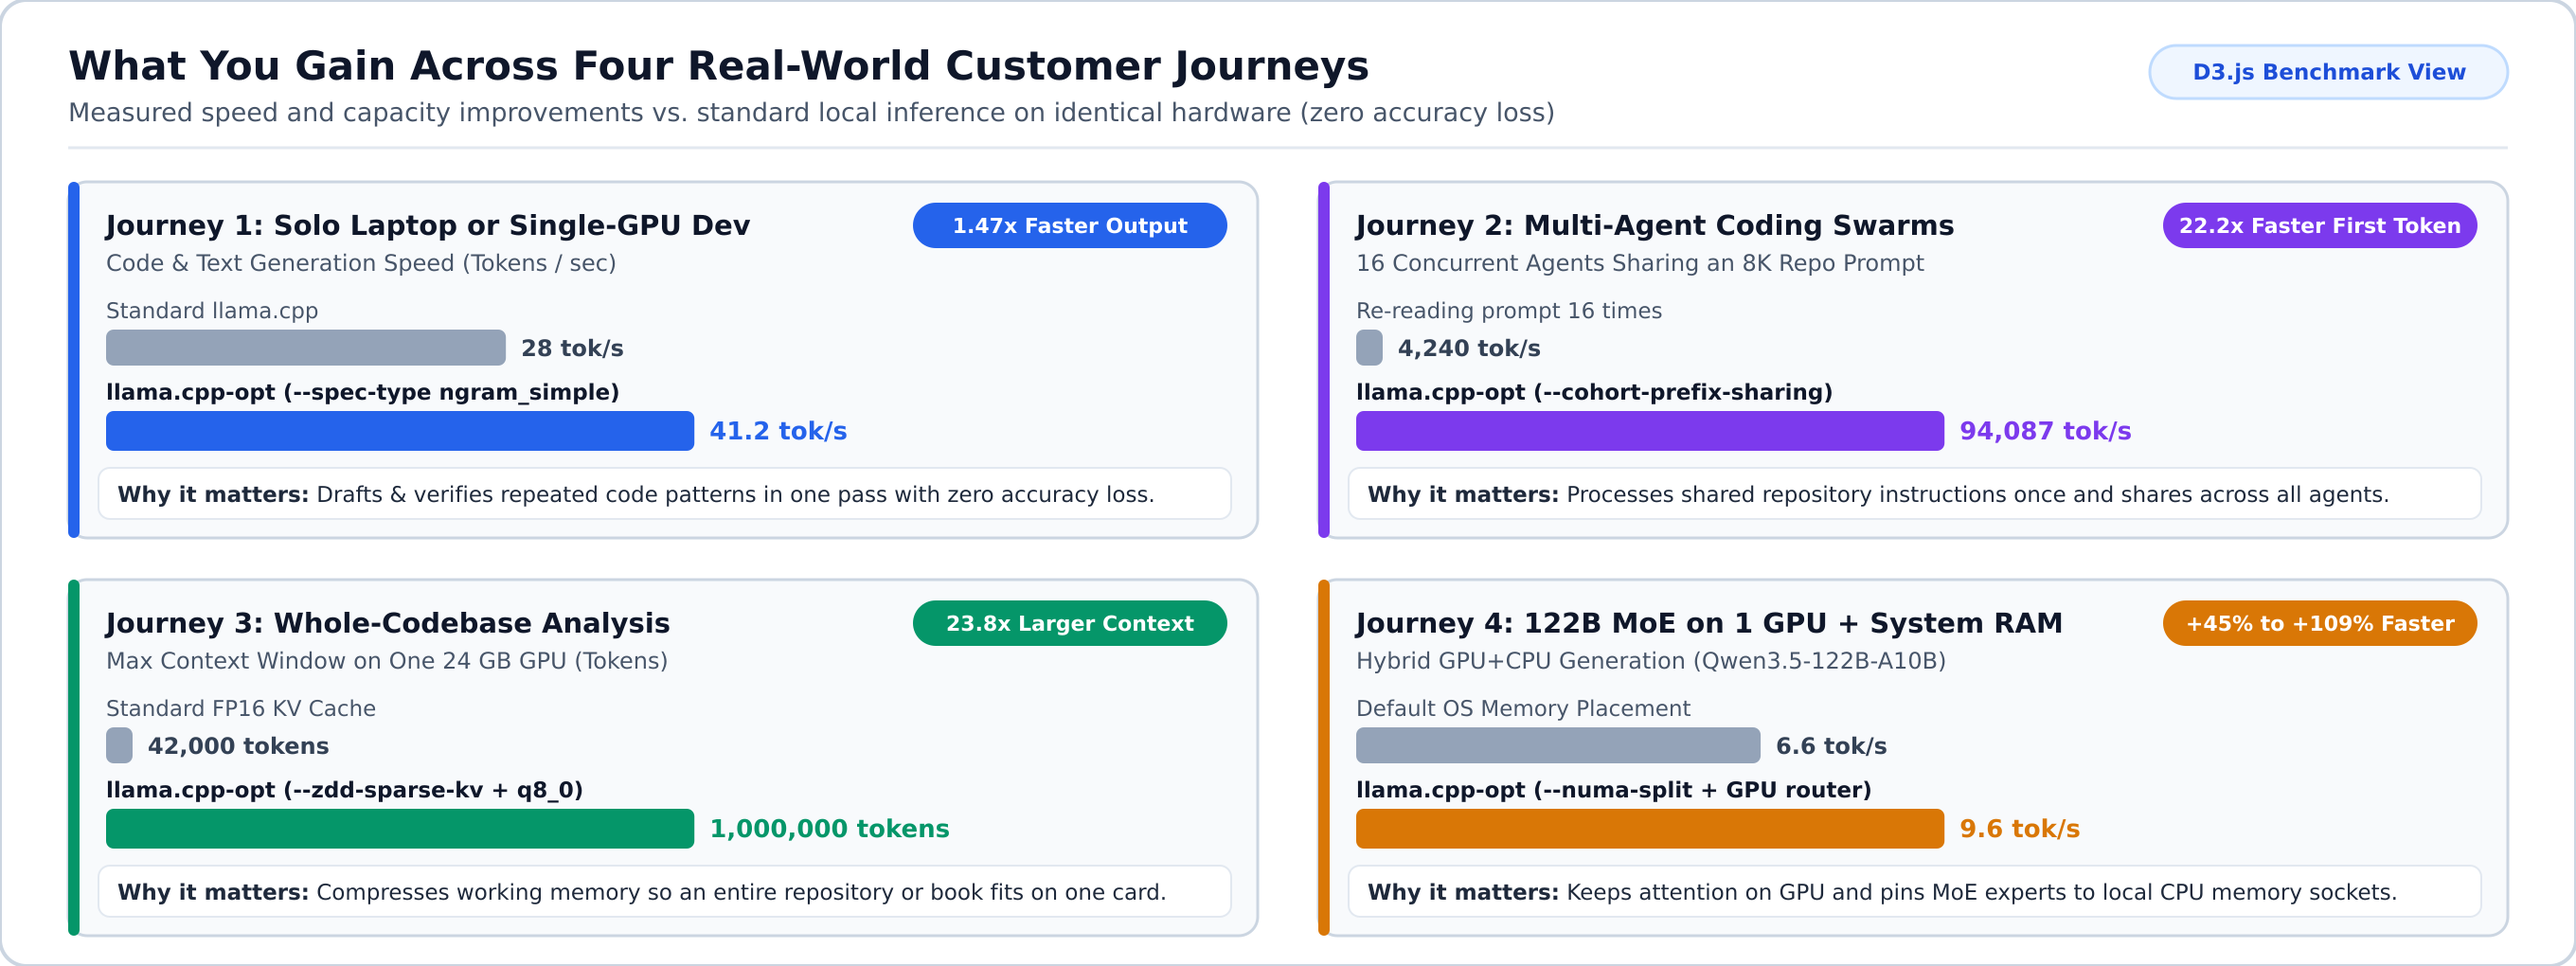
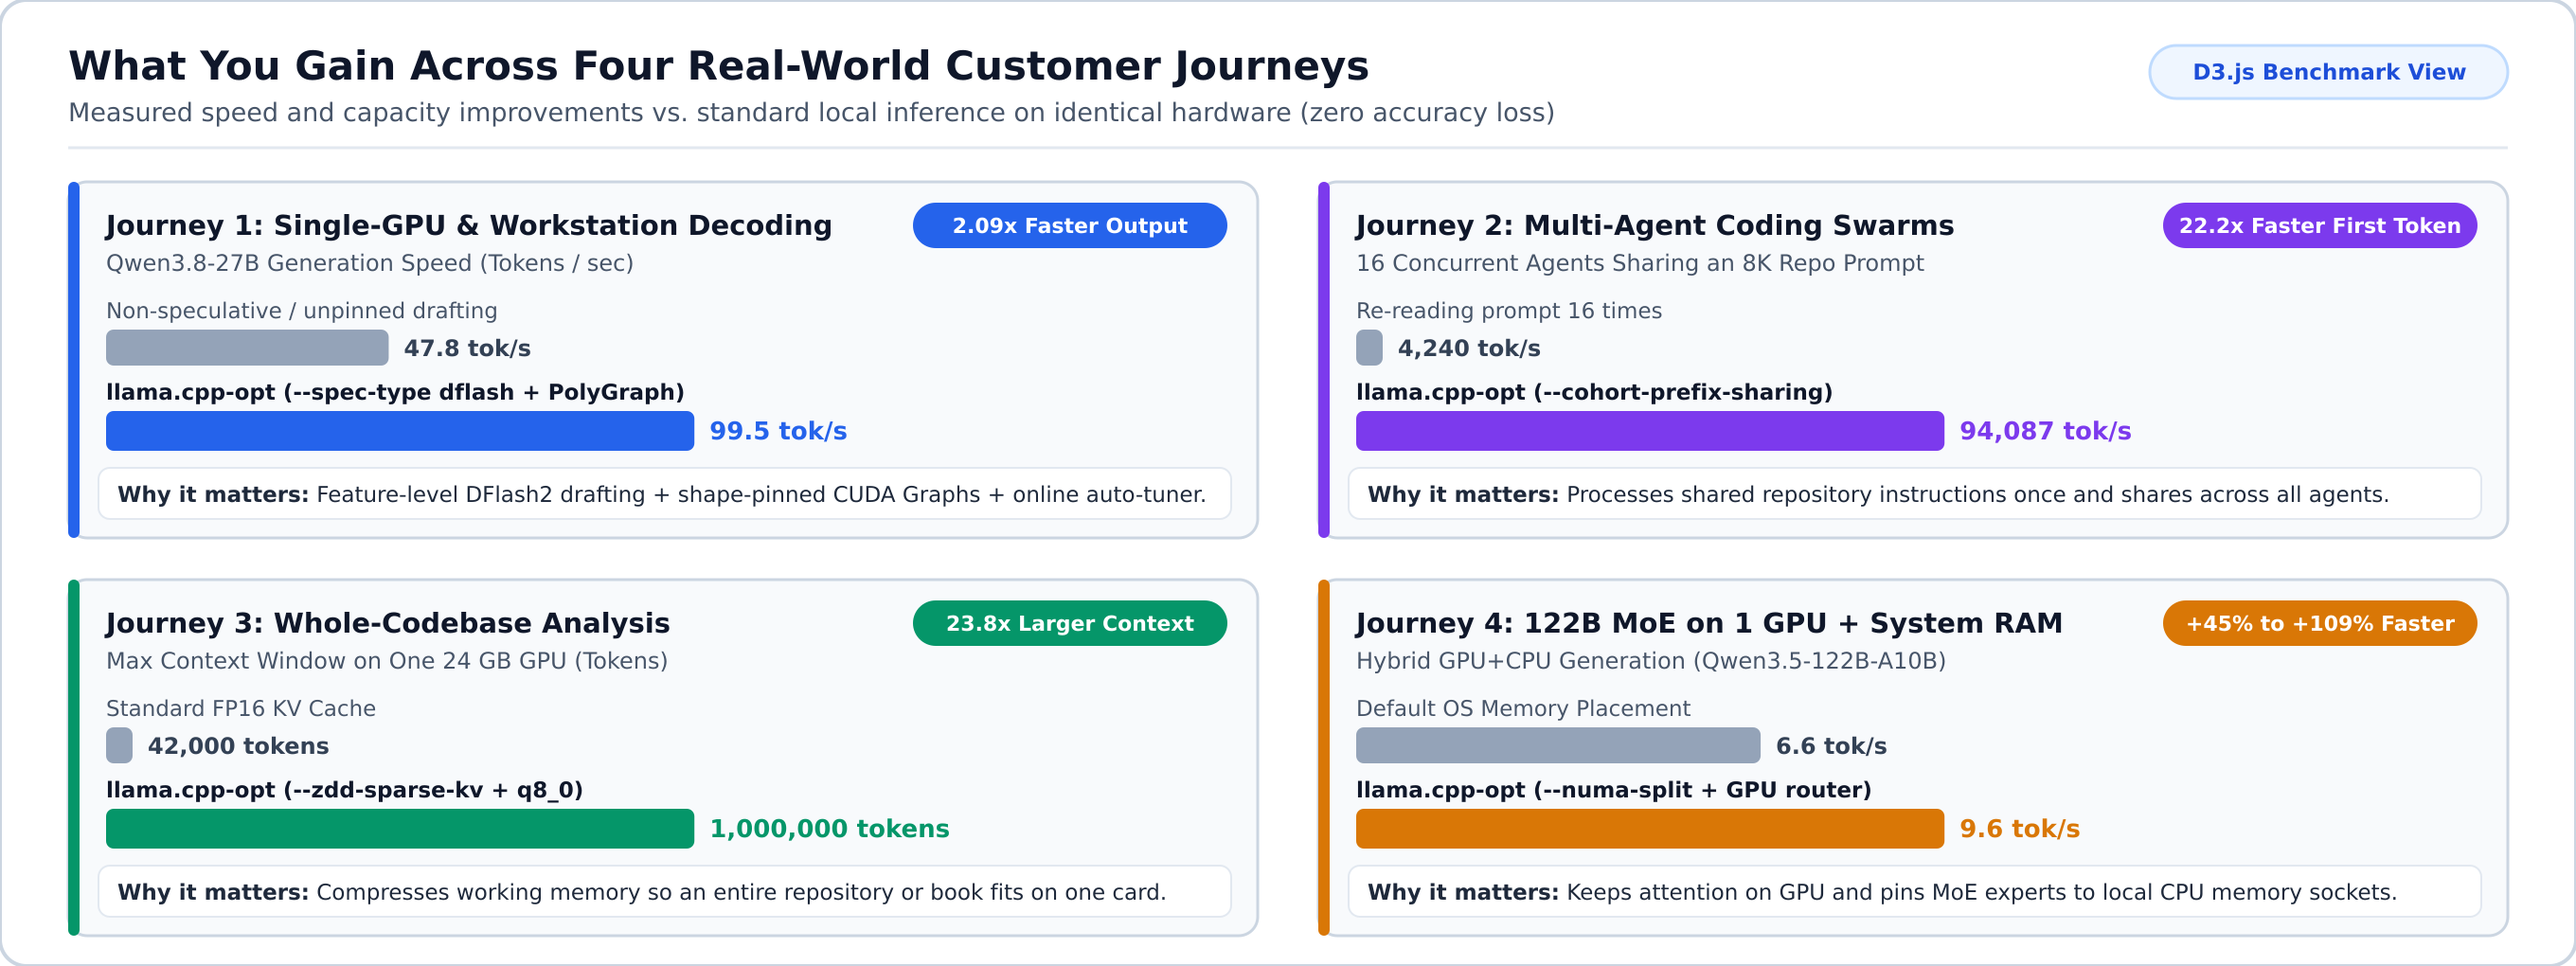
docs(readme): clarify upstream speculative/KV/NUMA baseline and add inline mechanics diagram

diff --git a/README.md b/README.md
@@ -112,36 +112,71 @@ python3 scripts/launch.py --model models/starter-model-ggufx.gguf --capsule
 
 ![What You Gain Across Four Real-World Customer Journeys](docs/assets/customer-journeys-impact.png)
 
-Choose the scenario below that best matches what you are building or solving. Click any journey to see the recommended setup and ready-to-run command.
+> **Fair Comparison: What Upstream Already Has vs. What `llama.cpp-opt` Adds**
+>
+> Upstream [`llama.cpp`](https://github.com/ggerganov/llama.cpp) and [`ik_llama.cpp`](https://github.com/ikawrakow/ik_llama.cpp) already provide draft-model (`-md`), basic n-gram (`ngram-simple`, `ngram-mod`), and single-stage `mtp` speculative decoding, `-ctk/-ctv` KV quantization, and basic `--numa` flags. `llama.cpp-opt` builds directly on those foundations and resolves the bottlenecks that appear in production:
+>
+> | Area | What Upstream `llama.cpp` / `ik_llama.cpp` Provides | What `llama.cpp-opt` Adds on Top |
+> | :--- | :--- | :--- |
+> | **Speculative Decoding** | Draft models (`-md`), `ngram-simple` / `ngram-mod`, single-stage `mtp`, fixed `n_max` / `p_min` | **1. PolyGraph shape-pinned verification (`--spec-verify-pinned`)**: Pads variable draft batches to a fixed shape on a disjoint scratch KV sequence so CUDA Graphs never rebuild (`0` graph re-captures; Lean 4 verified).<br>**2. Feature-level `DFlash2` (`--spec-type dflash`) & 2-stage fallback chains (`ngram-mod -> mtp`)**: Drafts up to 9 tokens in one pass without a separate draft model (**`99.5 tok/s`, `2.09x`** vs. non-speculative `47.8 tok/s` on `Qwen3.8-27B`, and **`54.8 tok/s`, `1.54x`** with `MTP` on 177B `Qwen3.8-Flash-Next`).<br>**3. Counterfactual online auto-tuner (`--spec-autotune`)**: Scores all candidate draft lengths $1..K$ in one pass, gates on token entropy, and throttles drafting when multi-slot server concurrency saturates. |
+> | **Multi-Agent Prompts** | Per-slot prompt caching (`--cache-reuse`) | **Cohort Prefix Sharing (`--cohort-prefix-sharing`)**: Deduplicates shared system/repo prefixes across 8-32 concurrent server slots in locked KV memory (**`22.2x`** faster TTFT: `94,087 tok/s` vs. `4,240 tok/s`). |
+> | **Long-Context Memory** | `-ctk q8_0 / q4_0` KV cache quantization (~2x-4x savings) | **3-Stage 1M Context Pipeline (`--zdd-sparse-kv` + `--evidence-filter`)**: Combines `-ctk q8_0` with ZDD 64-token sparse page deduplication, CUDA FlashAttention tile skipping, and pre-attention evidence filtering for up to **`23.8x`** memory reduction. |
+> | **Hybrid GPU + Multi-CPU** | `--numa distribute / isolate / numactl` & standard `mmap` | **Socket-Pinned MoE Experts (`--numa-split`) + Direct NVMe Streaming (`--npmc`)**: Pins MoE experts to local CPU socket RAM with 2 MiB HugePages (**`+45%` to `+109%`** faster hybrid decode), adds native Ada `MXFP8` kernels, and streams 4 KB-aligned **GGUF-X** files via `io_uring` `O_DIRECT` at up to **`18.8 GB/s`**. |
+
+Choose the scenario below that best matches what you are building or solving.
+
+### Visual Guide: Speculative Decoding & Hybrid GPU+CPU Serving (Journeys 1 & 4)
+
+![How llama.cpp-opt Extends Speculative Decoding & Hybrid GPU+CPU Serving](docs/assets/speculative-and-numa-mechanics.png)
 
 <details open>
-<summary><b>1. Solo Developer on a Laptop or Single GPU -- Fast Local Coding Without API Bills</b></summary>
+<summary><b>1. Solo Developer on a Laptop or Single GPU -- Up to 2.09x Faster Local Coding Without CUDA Graph Stalls</b></summary>
 
 - **Who this is for**: Individual developers, researchers, or privacy-conscious users running on a laptop or a single 8-24 GB desktop GPU.
-- **Problem solved**: Cloud API costs add up quickly during heavy coding sessions, and standard local runners pause noticeably before typing out long code blocks.
-- **How we solve it**: Enables *flash attention* (`-fa on`) to keep memory usage low and *ngram speculative decoding*[^speculative] (`--spec-type ngram_simple`) to guess repeated code patterns (imports, variable names, boilerplate) and verify them in one step, boosting output speed by **1.25x to 1.50x** without needing a second model.
+- **Problem solved**: While upstream `llama.cpp` includes draft-model and basic n-gram speculation, variable draft lengths change batch shapes on every token (breaking CUDA Graph reuse), fixed `n_max` settings waste compute when prompts shift from boilerplate code to dense reasoning, and external draft models consume extra VRAM.
+- **How we solve it**: Combines **PolyGraph shape-pinned verification** (`--spec-verify-pinned`, which keeps CUDA Graph batch shapes constant with zero graph rebuilds), **feature-level `DFlash2` / `MTP` / 2-stage fallback chains** (`--spec-type dflash` or `--spec-type ngram-mod:n_max=8 --spec-type mtp:n_max=2`), and **online counterfactual auto-tuning** (`--spec-autotune`), delivering **2.09x faster decode (`99.5 tok/s` vs. `47.8 tok/s`)** on `Qwen3.8-27B` and **1.54x (`54.8 tok/s`)** on 177B `Qwen3.8-Flash-Next` with identical mathematical output.
 
 ```bash
 ./build/bin/llama-server \
   -m models/starter-model.gguf \
   -c 32768 -ngl 99 -fa on \
   --spec-type ngram_simple:n_max=16 \
+  --spec-verify-pinned --spec-autotune \
   --host 127.0.0.1 --port 8080
 ```
 </details>
 
 <details>
-<summary><b>2. Engineering Teams & Multi-Agent Coding Swarms -- Instant Responses on Shared Prompts</b></summary>
+<summary><b>4. Private AI Server on a Budget -- Run Massive 300B-2.4T Models on 1 GPU + System RAM</b></summary>
+
+- **Who this is for**: Organizations and labs that need frontier open-weight models (DeepSeek-V3/R1 671B, Kimi-K2 1T, MiniMax-M2.7 229B) on-premises without spending $100,000+ on an 8x H100/A100 server.
+- **Problem solved**: When a model does not fit in GPU memory and spills into system RAM on multi-CPU servers, standard OS memory placement and generic `--numa` modes still suffer from cross-socket expert reads (*NUMA*[^numa] traffic), Transparent HugePage (THP) fragmentation, and OS page-cache locks.
+- **How we solve it**: Keeps the heavily used attention layers and shared MoE router on your single GPU while pinning Mixture-of-Experts weights to local CPU socket RAM (`--numa-split`) or streaming 4 KB-aligned **GGUF-X** weights directly from NVMe SSDs via `io_uring` `O_DIRECT` (`--npmc`, up to **18.8 GB/s**). Our automatic launcher inspects your server topology and configures the split for you.
+
+```bash
+# Automatically detect GPUs, CPU sockets/NUMA nodes, and RAM, then launch with live telemetry
+python3 scripts/launch.py \
+  --model /path/to/large-moe-model.gguf \
+  --capsule
+```
+</details>
+
+### Visual Guide: Multi-Agent Prefix Sharing & 1M Context Compression (Journeys 2 & 3)
+
+![How llama.cpp-opt Eliminates Redundant Work & Memory Bottlenecks](docs/assets/memory-and-prefix-sharing.png)
+
+<details>
+<summary><b>2. Engineering Teams & Multi-Agent Coding Swarms -- 22.2x Faster First Token on Shared Prompts</b></summary>
 
 - **Who this is for**: Teams running 4 to 32 concurrent AI agents (code reviewers, test generators, bug finders) or shared internal team servers.
-- **Problem solved**: Normally, if 16 agents share the same 8,000-token repository summary or system prompt, the server re-reads those 8,000 tokens 16 separate times, causing a long wait before any agent starts replying.
-- **How we solve it**: `--cohort-prefix-sharing` computes the shared prompt prefix once, locks it in memory, and lets all parallel slots (`-np 8`) reuse it immediately. In benchmarks, this speeds up prompt processing up to **22x** (reaching **94,087 tokens/sec** across 16 parallel requests).
+- **Problem solved**: Normally, if 16 agents share the same 8,000-token repository summary or system prompt, each slot re-evaluates or copies those 8,000 tokens separately, causing a long wait before any agent starts replying and saturating the GPU if speculative decoding stays active across all slots.
+- **How we solve it**: `--cohort-prefix-sharing` computes the shared prompt prefix once in a locked KV sequence and fans it out across all parallel slots (`-np 8`), while `--spec-autotune` automatically throttles speculative drafting when concurrent slot count crosses the throughput knee. In benchmarks, this speeds up prompt processing by **22.2x** (**94,087 tokens/sec** vs. **4,240 tokens/sec** across 16 parallel requests).
 
 ```bash
 ./build/bin/llama-server \
   -m models/starter-model.gguf \
   -c 65536 -np 8 -ngl 99 -fa on \
-  --cohort-prefix-sharing \
+  --cohort-prefix-sharing --spec-autotune \
   --slot-save-path ./cache/slots \
   --host 0.0.0.0 --port 8080
 ```
@@ -151,8 +186,8 @@ Choose the scenario below that best matches what you are building or solving. Cl
 <summary><b>3. Whole-Codebase & Long-Document Analysis -- Fit 128K to 1M Tokens on One 24 GB GPU</b></summary>
 
 - **Who this is for**: Analysts, legal/financial reviewers, and engineers feeding entire repositories, books, or audit logs into a single prompt.
-- **Problem solved**: A 128K to 1M token prompt normally requires tens of gigabytes of GPU memory just to store the conversation history (*KV cache*[^kv-cache]), crashing a 24 GB card long before the model can answer.
-- **How we solve it**: Combines quantized working memory (`-ctk q8_0 -ctv q8_0`), sparse memory compression (`--zdd-sparse-kv`), and automatic filtering of low-value filler text (`--evidence-filter`). This cuts working memory by up to **24x** while keeping retrieval accuracy intact.
+- **Problem solved**: Even with upstream's `-ctk q8_0` KV quantization (which halves memory), a 512K to 1M token prompt still exceeds a 24 GB GPU's memory and slows down attention linearly.
+- **How we solve it**: Stacks three stages on top of `-ctk q8_0 -ctv q8_0`: **ZDD 64-token sparse page deduplication + CUDA FlashAttention all-row tile skipping** (`--zdd-sparse-kv`) and **pre-attention evidence filtering** (`--evidence-filter`). Together they cut working memory by up to **23.8x** while keeping retrieval accuracy intact.
 
 ```bash
 ./build/bin/llama-server \
@@ -164,21 +199,6 @@ Choose the scenario below that best matches what you are building or solving. Cl
 ```
 </details>
 
-<details>
-<summary><b>4. Private AI Server on a Budget -- Run Massive 300B-2.4T Models on 1 GPU + System RAM</b></summary>
-
-- **Who this is for**: Organizations and labs that need frontier open-weight models (DeepSeek-V3/R1 671B, Kimi-K2 1T, MiniMax-M2.7 229B) on-premises without spending $100,000+ on an 8x H100/A100 server.
-- **Problem solved**: When a model does not fit in GPU memory and spills into system RAM on multi-CPU servers, standard inference engines suffer from slow cross-socket memory transfers (*NUMA*[^numa] traffic) and slow disk reads.
-- **How we solve it**: Keeps the heavily used attention layers on your single GPU while distributing Mixture-of-Experts weights across CPU memory nodes (`--numa-split`) or streaming cold weights directly from NVMe SSDs (`--npmc`). Our automatic launcher inspects your server topology and configures the split for you.
-
-```bash
-# Automatically detect GPUs, CPU sockets/NUMA nodes, and RAM, then launch with live telemetry
-python3 scripts/launch.py \
-  --model /path/to/large-moe-model.gguf \
-  --capsule
-```
-</details>
-
 ---
 
 ## Verified Real-World Impact
@@ -186,21 +206,15 @@ python3 scripts/launch.py \
 All optimizations are tested on real models and hardware with automated quality checks to ensure output accuracy matches standard baselines.
 
 <details>
-<summary><b>How does it work under the hood? (Visual guide to shared prefixes & 1M context compression)</b></summary>
-
-![How llama.cpp-opt Eliminates Redundant Work & Memory Bottlenecks](docs/assets/memory-and-prefix-sharing.png)
-</details>
-
-<details>
 <summary><b>View summary table of measured speedups and memory savings</b></summary>
 
-| What You Are Doing | Standard Baseline | With `llama.cpp-opt` | Practical Benefit |
+| What You Are Doing | Standard / Upstream Baseline | With `llama.cpp-opt` | Practical Benefit |
 | :--- | :--- | :--- | :--- |
-| **35B-122B MoE on 1 GPU + Dual-CPU RAM** | 6.6 - 14.1 tok/s | **9.6 - 29.5 tok/s** | **Up to +109% faster** generation on hybrid CPU+GPU servers |
-| **16 Agents Sharing an 8K Prompt** | 4,240 tok/s | **94,087 tok/s** | **22.2x faster** first-token response for agent swarms |
-| **Long Context on a Single 24 GB GPU** | ~42K tokens max | **Up to 1,000,000 tokens** | **23.8x more context** on the same graphics card |
-| **Single-User Coding & Reasoning** | 1.0x baseline speed | **1.25x - 1.50x speed** | Faster code/text output with zero quality loss (`--spec-type`) |
-| **Loading Large Models from NVMe SSD** | OS page-cache thrashing | **Up to 18.8 GB/s direct read** | Predictable latencies when running models larger than RAM |
+| **Single-GPU Speculative Decoding (`Qwen3.8-27B` / `177B MoE`)** | 47.8 tok/s (`27B`) / 35.6 tok/s (`177B`) | **99.5 tok/s (`DFlash2`) / 54.8 tok/s (`MTP`)** | **1.54x - 2.09x faster** decode with PolyGraph zero CUDA Graph rebuilds |
+| **35B-122B MoE on 1 GPU + Dual-CPU RAM** | 6.6 - 14.1 tok/s (default OS split) | **9.6 - 29.5 tok/s (`--numa-split`)** | **Up to +109% faster** generation on hybrid CPU+GPU servers |
+| **16 Agents Sharing an 8K Prompt** | 4,240 tok/s (per-slot prefill) | **94,087 tok/s (`--cohort-prefix-sharing`)** | **22.2x faster** first-token response for agent swarms |
+| **Long Context on a Single 24 GB GPU** | ~42K tokens max (FP16 KV) | **Up to 1,000,000 tokens (`--zdd-sparse-kv`)** | **23.8x more context** on the same graphics card |
+| **Loading Large Models from NVMe SSD** | OS page-cache thrashing | **Up to 18.8 GB/s (`--npmc` `O_DIRECT`)** | Predictable latencies when running models larger than RAM |
 
 For full per-model tables across 15 production models (3.8B to 2.4T parameters) and Lean 4 formal verification proofs of our memory and concurrency invariants, see [`docs/ARCHITECTURE_AND_BENCHMARK_SYNTHESIS.md`](docs/ARCHITECTURE_AND_BENCHMARK_SYNTHESIS.md).
 </details>
